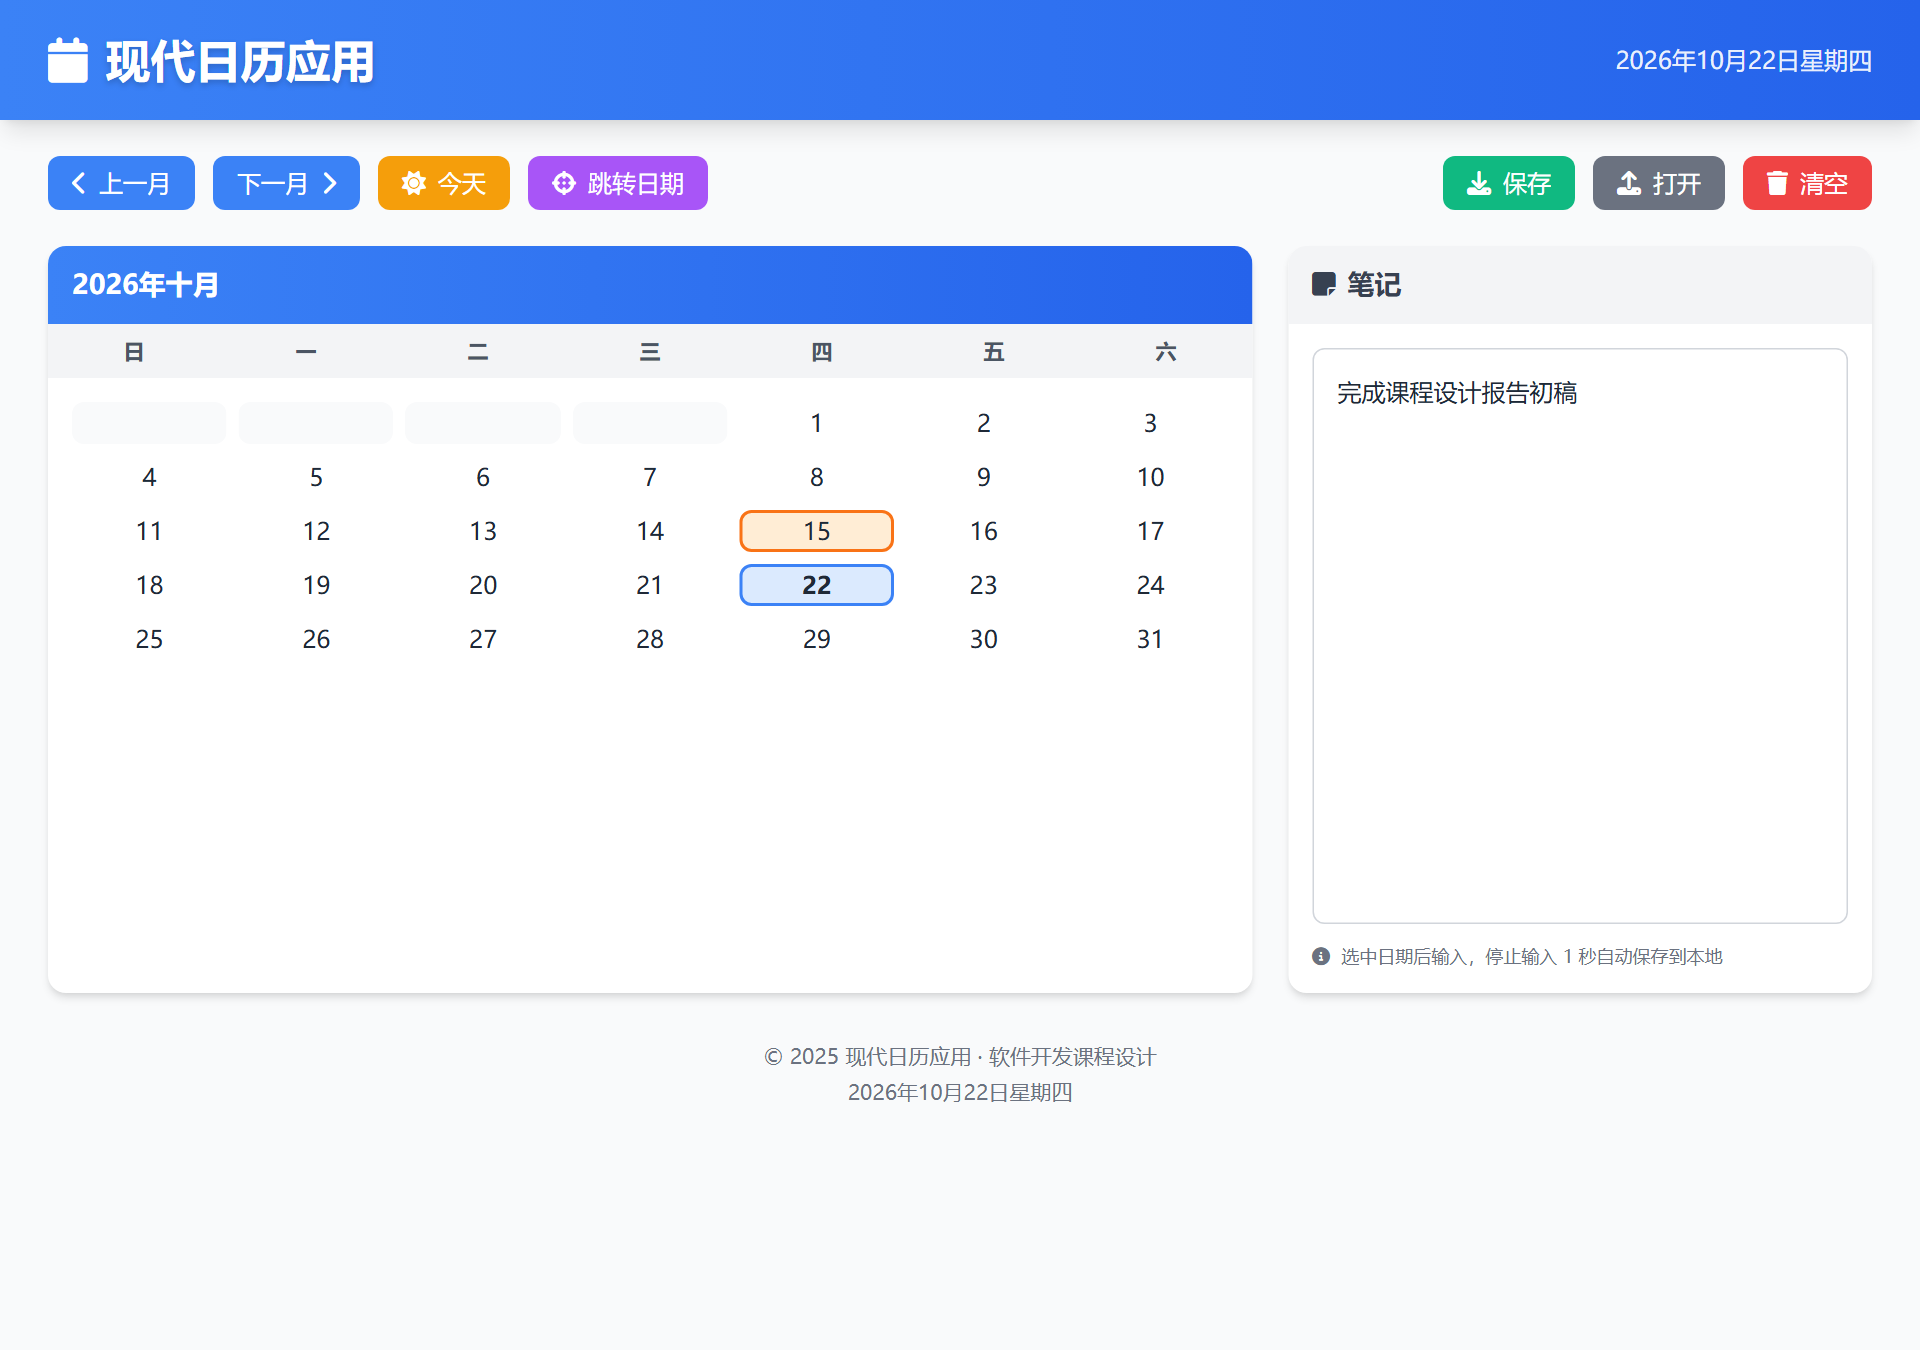
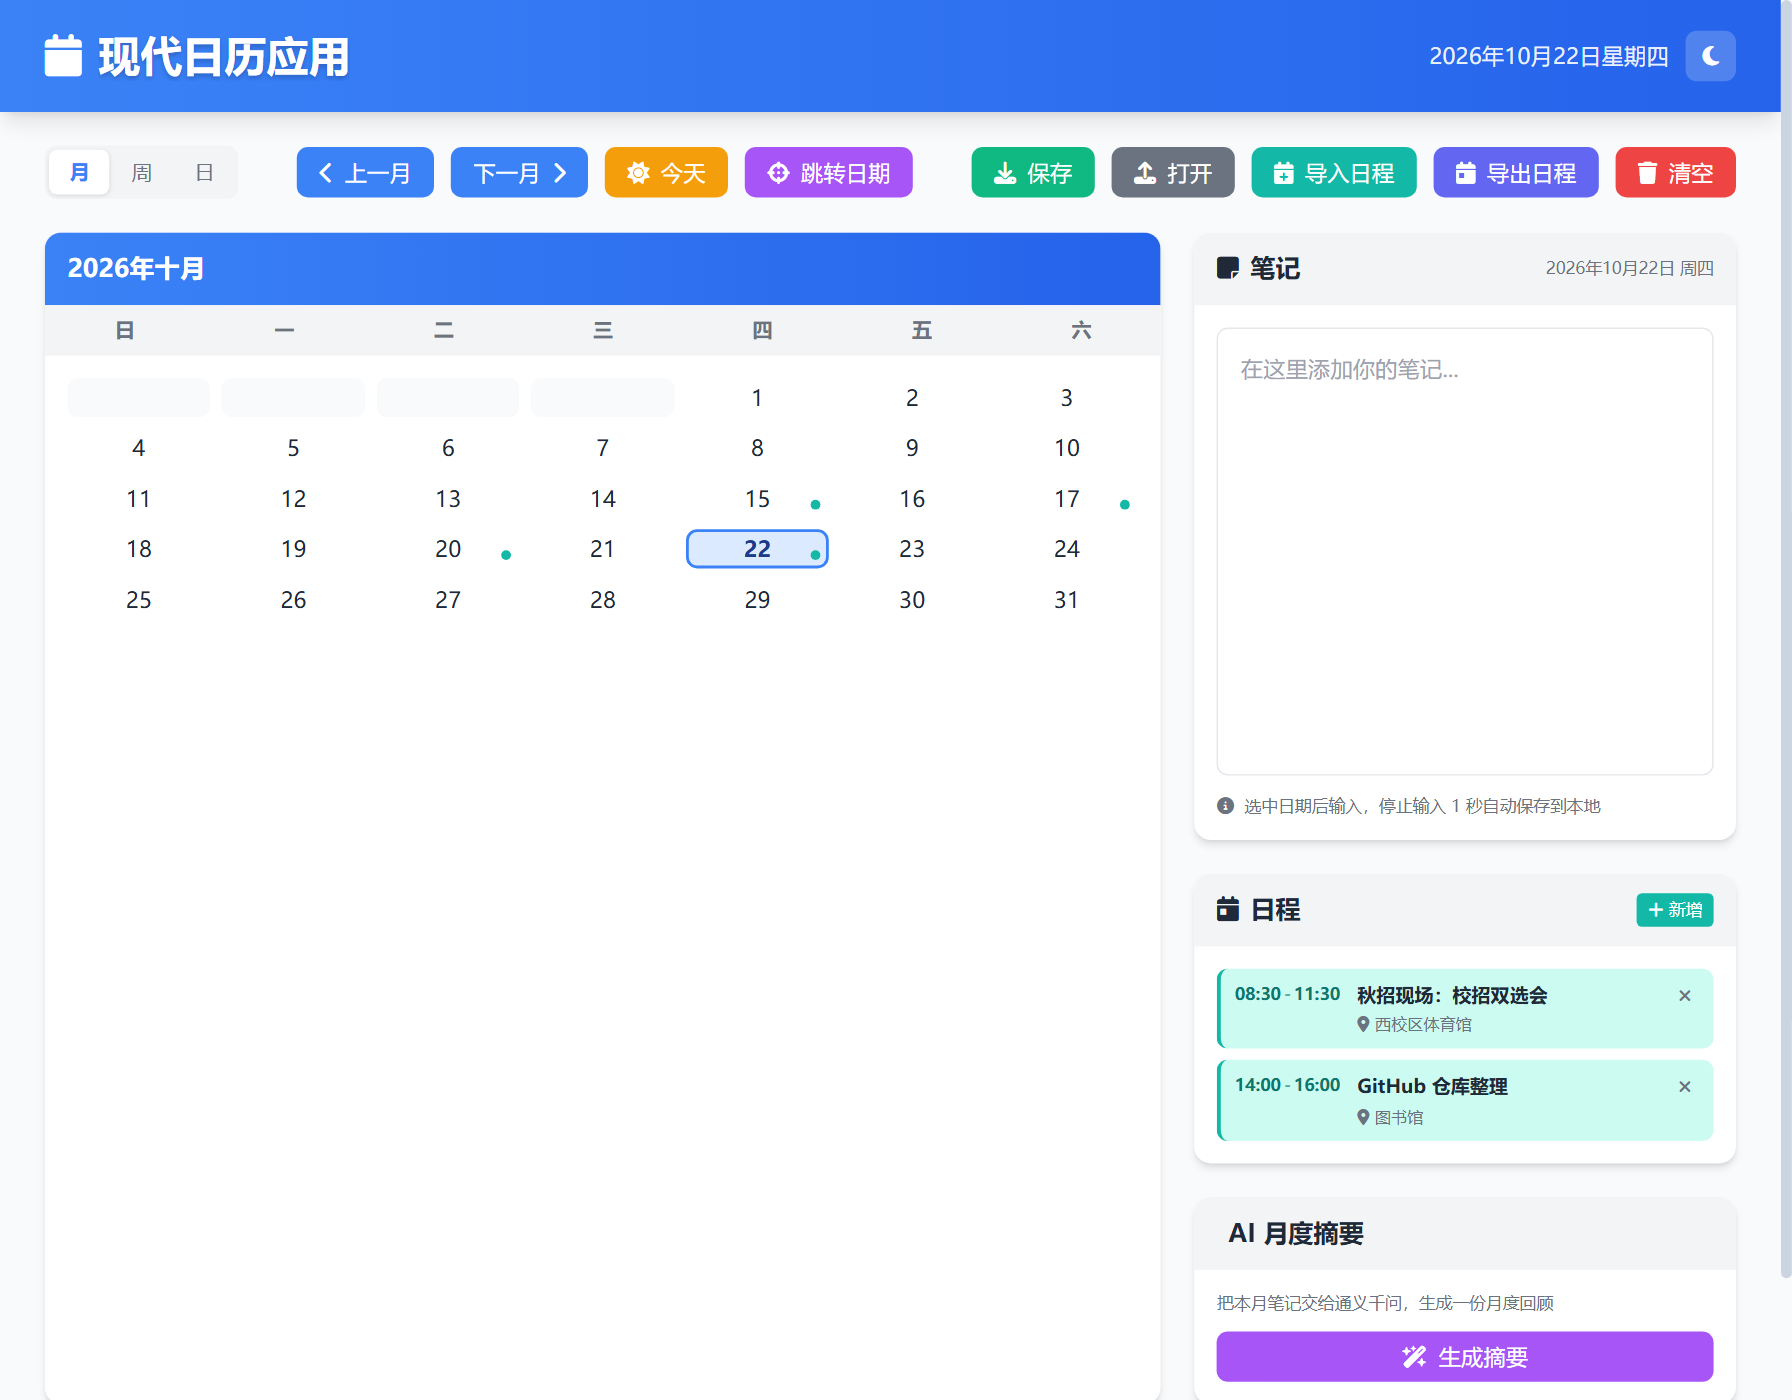
docs: 更新 README 与四张界面截图
- 补充三视图、日程、.ics、AI 摘要、深色模式的功能说明
- 补充测试覆盖率表格与 loader 原理说明
- 新增周视图、暗色日视图截图

diff --git a/README.md b/README.md
@@ -4,7 +4,13 @@
 > 团队：张桓浩 / 邹晔铖 / 吴奇
 > 技术栈：原生 JavaScript（ES6 Class）+ Tailwind CSS v3 + Font Awesome + localStorage
 
-一个零依赖、零构建的现代日历应用。打开 `index.html` 就能用，不需要服务器、不需要 `npm install`、不需要打包。
+一个零依赖、零构建的现代日历应用。打开 `index.html` 就能用，不需要服务器、不需要打包。
+
+[![CI](https://github.com/zhaoyuezhao/ModernCalendar/actions/workflows/ci.yml/badge.svg)](https://github.com/zhaoyuezhao/ModernCalendar/actions/workflows/ci.yml)
+[![Tests](https://img.shields.io/badge/tests-60%20passed-brightgreen.svg)](https://github.com/zhaoyuezhao/ModernCalendar)
+[![Coverage](https://img.shields.io/badge/coverage-86%25-brightgreen.svg)](https://github.com/zhaoyuezhao/ModernCalendar)
+[![License](https://img.shields.io/badge/license-MIT-blue.svg)](LICENSE)
+[![No deps](https://img.shields.io/badge/runtime%20deps-0-success.svg)](package.json)
 
 ![界面截图](docs/screenshot-desktop.png)
 
@@ -14,9 +20,13 @@
 
 | 模块 | 说明 |
 |---|---|
-| **月视图日历** | 自动高亮今日；上/下月切换；一键回到今天；跨年自动进位 |
+| **三视图日历** | 月 / 周 / 日三种视图自由切换，共享同一个选中日期；有日程的日子显示圆点标记 |
 | **日期跳转** | 输入年/月/日跳转到任意日期，非法日期（如 2 月 30 日）会被拦截并提示 |
 | **按日笔记** | 选中日期写笔记，**停止输入 1 秒自动保存**；可导出为 `.txt`、可导入回填 |
+| **日程事件** | 一天可挂多条日程（时间区间 + 标题 + 地点），周/日视图按时间轴排列 |
+| **.ics 导入导出** | 导入标准日历文件（RFC 5545），导出后可直接进手机 / 系统日历 |
+| **AI 月度摘要** | 把当月笔记交给通义千问，生成一份月度回顾 |
+| **深色模式** | CSS 变量驱动，偏好记入 localStorage，刷新后保持 |
 | **本地持久化** | `localStorage` 存储，刷新不丢；二次确认后才可清空 |
 | **响应式** | 320px 手机到 1920px 桌面自适应，小屏自动改为上下布局 |
 
@@ -35,34 +45,102 @@ python -m http.server 8080
 
 > Tailwind 与 Font Awesome 走 CDN，若要完全离线，可把两个库下载到本地并改 `index.html` 的引用路径。
 
+### AI 月度摘要（可选）
+
+需要配置模型 Key。在 `index.html` 的 `</body>` 前加一行：
+
+```html
+<script>window.CALENDAR_CONFIG = { dashscopeApiKey: 'sk-你的Key' };</script>
+```
+
+不配置也能用，点了会提示如何配置。Key 从[百炼控制台](https://bailian.console.aliyun.com/)获取。
+
+### 测试
+
+```bash
+npm install      # 只装开发依赖（vitest），运行时不依赖任何包
+npm test         # 跑单元测试
+npm run coverage # 跑测试并生成覆盖率报告（coverage/ 目录）
+```
+
+CI 配置在 `.github/workflows/ci.yml`，每次 push 自动跑测试 + 语法检查。
+
 ---
 
 ## 架构
 
-四个职责单一的类，通过实例关联协作，改一处不影响另一处：
+八个模块，职责单一，通过实例关联协作，改一处不影响另一处：
 
 ```
-┌─────────────────────────────────────────────────┐
-│  app.js                                          │
-│  ├─ Calendar          日期计算（纯逻辑，无 DOM）  │
-│  ├─ CalendarRenderer  渲染 + 交互 + 笔记持久化   │
-│  ├─ FileHandler       导入导出（静态方法）        │
-│  └─ DateJump          跳转控制 + 日期合法性校验   │
-└─────────────────────────────────────────────────┘
+┌────────────────────────────────────────────────────────┐
+│  app.js                                                 │
+│  ├─ Calendar          日期计算（纯逻辑，无 DOM）        │
+│  ├─ CalendarRenderer  渲染 + 交互 + 笔记持久化         │
+│  ├─ FileHandler       导入导出（静态方法）              │
+│  ├─ DateJump          跳转控制 + 日期合法性校验         │
+│  ├─ ViewManager       月 / 周 / 日三视图                │
+│  ├─ ThemeManager      深浅色主题切换                    │
+│  ├─ EventStore        日程事件的数据层（读写 localStorage）│
+│  └─ AiSummary         AI 月度摘要（可降级）              │
+│                                                          │
+│  ics.js  RFC 5545 日历文件解析与生成（纯函数）          │
+└────────────────────────────────────────────────────────┘
 ```
 
-| 文件 | 行数 | 职责 |
-|---|---|---|
-| `js/calendar.js` | 约 110 | 日期计算：天数、首日星期、月份切换、网格数据生成 |
-| `js/renderer.js` | 约 170 | 日历网格渲染、选中高亮、笔记读写、自动保存定时器 |
-| `js/file-handler.js` | 约 45 | Blob 导出 txt、FileReader 导入 txt |
-| `js/date-jump.js` | 约 140 | 模态框交互、日期合法性校验、跳转执行 |
-| `js/app.js` | 约 100 | 初始化、工具栏事件绑定、页面卸载前兜底保存 |
-| `css/style.css` | 约 90 | 按钮微动效、日期格子状态样式、震动反馈、滚动条 |
+| 文件 | 职责 |
+|---|---|
+| `js/calendar.js` | 日期计算：天数、首日星期、月份切换、网格数据生成；`formatLocalDate` 工具 |
+| `js/ics.js` | RFC 5545 解析与生成：转义、折行、日期时间解析、往返一致性 |
+| `js/event-store.js` | 日程事件 CRUD、`.ics` 导入导出、按月统计 |
+| `js/renderer.js` | 日历网格渲染、选中高亮、笔记读写、自动保存定时器 |
+| `js/file-handler.js` | Blob 导出、FileReader 导入（txt / ics） |
+| `js/date-jump.js` | 模态框交互、日期合法性校验、跳转执行 |
+| `js/views.js` | 月 / 周 / 日三视图渲染与切换、焦点日期管理 |
+| `js/theme.js` | 深浅色主题，CSS 变量 + localStorage 记忆 |
+| `js/ai-summary.js` | AI 月度摘要：上下文组装、Prompt 构造、接口调用与降级 |
+| `js/app.js` | 初始化、工具栏事件绑定、页面卸载前兜底保存 |
+| `css/style.css` | CSS 变量主题、按钮微动效、日期格子状态、周/日视图样式、震动反馈 |
+
+**分层原则**：纯逻辑（日期计算、ics 解析、上下文组装）不碰 DOM，可以直接跑单元测试；
+只有渲染与交互层依赖浏览器。
 
 ---
 
-## 数据结构
+## 测试
+
+`tests/unit.test.js` 一个文件，60 个用例，覆盖核心逻辑：
+
+| 测试组 | 覆盖内容 |
+|---|---|
+| **Calendar · 日期计算** | 闰年（含 2000/1900 边界）、大小月、首日星期、跨年进位、网格数据完整性、时区安全 |
+| **ics · 转义与折行** | 转义往返一致性、折行不劈开多字节字符、每行 ≤75 字节、续行以空格开头 |
+| **ics · 解析** | floating time / UTC / 全天三种日期形式、真实旅游项目 .ics 样本、LF 兼容、反折行、VALARM 嵌套忽略 |
+| **ics · 生成** | CRLF 行尾、结构完整、生成→解析往返一致、**与旅游项目双向互导** |
+| **EventStore** | 事件 CRUD、月份统计、`.ics` 导入去重（全日事件）、导出往返 |
+| **AI 摘要** | 上下文组装（只收有笔记的日期、不跨月）、Prompt 构造、401/429/500/空响应各类降级、请求体格式 |
+
+**覆盖率**（`npm run coverage`）：
+
+| 文件 | 覆盖率 |
+|---|---|
+| `js/calendar.js` | **100%** |
+| `js/ics.js` | **95.75%** |
+| `js/event-store.js` | **92.59%** |
+| `js/ai-summary.js` | 65.5%（未覆盖部分为 DOM 控制器，需浏览器环境） |
+| **整体** | **86.46%** |
+
+CI 每次 push 自动跑，覆盖率报告作为 artifact 保留 7 天。
+
+#### 测试是怎么加载浏览器脚本的
+
+`js/` 下的文件是给浏览器用 `<script src>` 加载的普通脚本，里面不能用 `export`，
+也就没法直接 `import` 进测试。`tests/loader.js` 用 `vm.runInThisContext` 逐个执行，
+每个文件带自己的 filename —— 这样既保留了「双击 index.html 就能用、零构建」，
+又能让 v8 覆盖率把执行到的代码准确归因回源文件。
+
+> 踩过的坑：把多个文件拼进一个 `new Function` 求值，只有最后一个文件能被归因，
+> 其他文件覆盖率全是 0%。逐个 `vm.Script` 执行才能解决。
+
 
 无后端，全部落在浏览器 `localStorage`（约 5MB 容量）：
 
